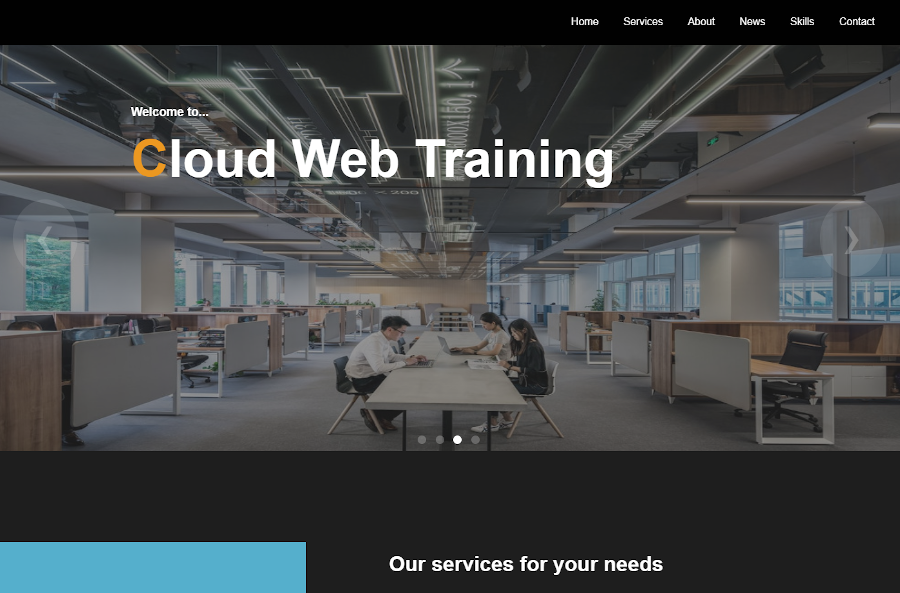
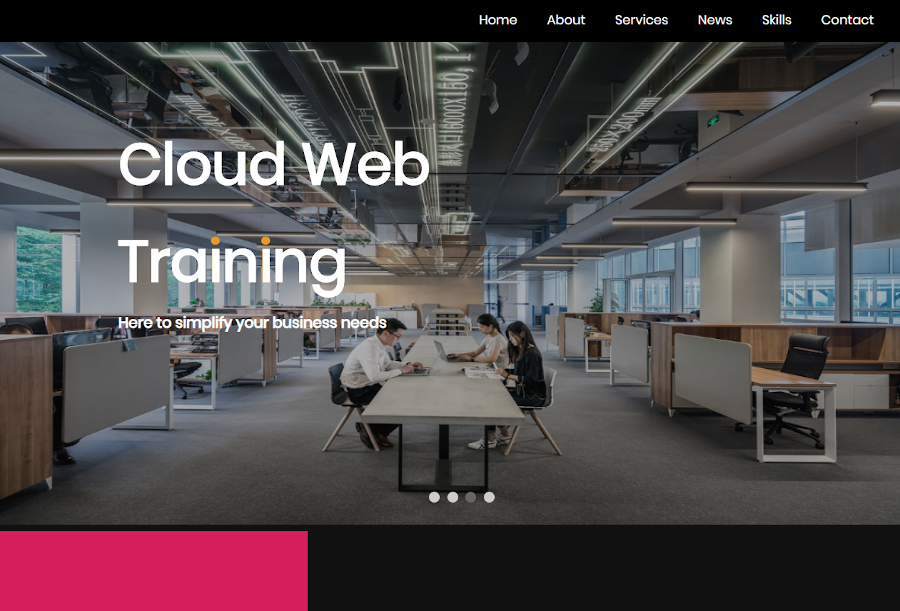
Project 3 version 3 (Cloud Web Training) now added and updated

diff --git a/src/components/PageSetup/Work/Project-3/Overview/ProjectThreeOverview.js b/src/components/PageSetup/Work/Project-3/Overview/ProjectThreeOverview.js
@@ -62,16 +62,15 @@ const ProjectThreeOverview = () => {
         <div className="bottomLineAlt"></div>
         <div className={classes.OverviewBody}>
           The main issues which i faced when implementing this project was how
-          to set the 'Parallax Scrolling' effect, i was able to add the effect
-          however the main issue that i was facing was the image was overlapping
-          the sections below and not giving me the desired effect.
+          to loop through each slide in my headers slide show.
         </div>
         <div className={classes.OverviewBody}>
-          I found that when trying to implement the Parallax Scrolling effect, i
-          needed to add a z-index for the image and then add an additional
-          padding section below the image so that the image is then hidden under
-          the padding. Once i had put this in place i was the able to achieve
-          the effect i was looking for.
+          I found that when trying to implement the slide show, the issue which
+          i was facing when not being able to loop through the slides was that
+          my 'dots.length' did not match the amount of images which i had put
+          into the slider, therefore my 'slides.length' were never matching my
+          'dots.length'. Once this had been amended i was then able to set a
+          timeout and switch between them without any further issues.
         </div>
         <div className={classes.ButtonsContainer}>
           <a
@@ -82,7 +81,7 @@ const ProjectThreeOverview = () => {
             <button className={classes.ProjectBtn}>Visit Website</button>
           </a>
           <a
-            href="https://github.com/ShrewdStyle/cloud_web_training"
+            href="https://github.com/ShrewdStyle/Cloud_Web_Training_v3"
             target="_blank"
             rel="noopener noreferrer"
           >
